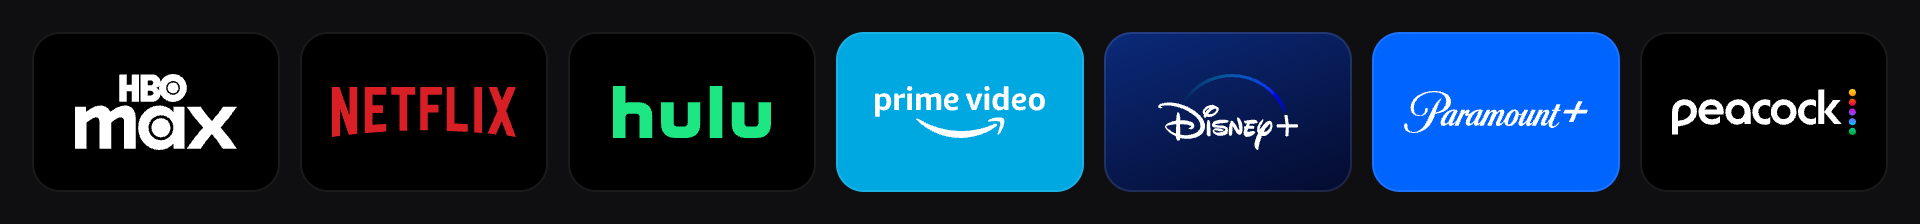
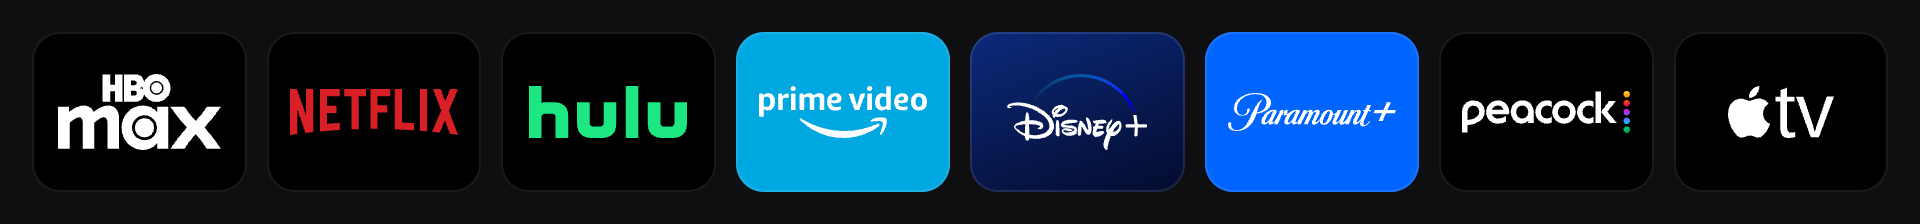
feat: support Apple TV (tv.apple.com)
- Add Apple TV to SERVICES, host permissions and content script matches
- Bump version to 1.2.0
- Apple TV logo in the hero and README logo strip; README, product docs updated
- README: explain Ardia's WebKit engine for streaming sites and how to use
  the extension there

diff --git a/scripts/screenshots/hero.html b/scripts/screenshots/hero.html
@@ -28,7 +28,7 @@
       <div class="name"><img src="/icons/icon128.png" alt="" />Streaming Speed Control</div>
       <h1>Speed control for<br />your streaming apps.</h1>
       <p>1.25x, 1.5x, 1.75x or 2x in one click, or anything from 0.25x to 4x.</p>
-      <ul class="services"><li style="background: #000000"><img class="tall" src="/docs/images/services/hbomax-dark.svg" alt="HBO Max" /></li><li style="background: #000000"><img src="/docs/images/services/netflix.svg" alt="Netflix" /></li><li style="background: #000000"><img src="/docs/images/services/hulu.svg" alt="Hulu" /></li><li style="background: #00A8E1"><img src="/docs/images/services/primevideo-dark.svg" alt="Prime Video" /></li><li style="background: linear-gradient(160deg, #0b2a7a, #040b2e)"><img class="tall" src="/docs/images/services/disneyplus-dark.svg" alt="Disney+" /></li><li style="background: #0064FF"><img src="/docs/images/services/paramountplus-dark.svg" alt="Paramount+" /></li><li style="background: #000000"><img src="/docs/images/services/peacock-dark.svg" alt="Peacock" /></li></ul>
+      <ul class="services"><li style="background: #000000"><img class="tall" src="/docs/images/services/hbomax-dark.svg" alt="HBO Max" /></li><li style="background: #000000"><img src="/docs/images/services/netflix.svg" alt="Netflix" /></li><li style="background: #000000"><img src="/docs/images/services/hulu.svg" alt="Hulu" /></li><li style="background: #00A8E1"><img src="/docs/images/services/primevideo-dark.svg" alt="Prime Video" /></li><li style="background: linear-gradient(160deg, #0b2a7a, #040b2e)"><img class="tall" src="/docs/images/services/disneyplus-dark.svg" alt="Disney+" /></li><li style="background: #0064FF"><img src="/docs/images/services/paramountplus-dark.svg" alt="Paramount+" /></li><li style="background: #000000"><img src="/docs/images/services/peacock-dark.svg" alt="Peacock" /></li><li style="background: #000000"><img src="/docs/images/services/appletv-dark.svg" alt="Apple TV" /></li></ul>
     </div>
     <iframe src="popup.html?state=active&speed=1.5&url=https://www.netflix.com/watch/demo"></iframe>
   </body>

diff --git a/scripts/screenshots/services.html b/scripts/screenshots/services.html
@@ -5,9 +5,9 @@
     <title>Services</title>
     <style>
       html, body { margin: 0; width: 960px; height: 112px; overflow: hidden; background: #0f0f11; }
-      ul { display: grid; grid-template-columns: repeat(7, 1fr); gap: 10px; margin: 0; padding: 16px; list-style: none; box-sizing: border-box; height: 100%; align-items: center; }
+      ul { display: grid; grid-template-columns: repeat(8, 1fr); gap: 10px; margin: 0; padding: 16px; list-style: none; box-sizing: border-box; height: 100%; align-items: center; }
       li { display: flex; align-items: center; justify-content: center; height: 100%; border-radius: 14px; box-shadow: inset 0 0 0 1px rgba(255, 255, 255, 0.1); }
-      img { display: block; max-width: 92px; max-height: 26px; }
+      img { display: block; max-width: 84px; max-height: 26px; }
       img.tall { max-height: 38px; }
     </style>
   </head>
@@ -20,6 +20,7 @@
       <li style="background: linear-gradient(160deg, #0b2a7a, #040b2e)"><img class="tall" src="/docs/images/services/disneyplus-dark.svg" alt="Disney+" /></li>
       <li style="background: #0064FF"><img src="/docs/images/services/paramountplus-dark.svg" alt="Paramount+" /></li>
       <li style="background: #000000"><img src="/docs/images/services/peacock-dark.svg" alt="Peacock" /></li>
+      <li style="background: #000000"><img src="/docs/images/services/appletv-dark.svg" alt="Apple TV" /></li>
     </ul>
   </body>
 </html>

diff --git a/tests/speed-utils.test.js b/tests/speed-utils.test.js
@@ -159,6 +159,7 @@ test('getServiceForUrl names each supported streaming service', () => {
     ['https://www.paramountplus.com/shows/video/abc', 'Paramount+'],
     ['https://www.peacocktv.com/watch/playback/vod/abc', 'Peacock'],
     ['https://play.max.com/video/watch/abc', 'HBO Max'],
+    ['https://tv.apple.com/us/episode/abc', 'Apple TV'],
   ];
   for (const [url, name] of cases) {
     const service = getServiceForUrl(url);
@@ -181,8 +182,11 @@ test('isSupportedHost rejects lookalikes of the new services', () => {
   assert.equal(isSupportedHost('https://disneyplus.com.example.org/'), false);
   assert.equal(isSupportedHost('https://mypeacocktv.com/'), false);
   assert.equal(isSupportedHost('https://amazon.com.evil.io/gp/video/x'), false);
+  assert.equal(isSupportedHost('https://www.apple.com/'), false);
+  assert.equal(isSupportedHost('https://music.apple.com/'), false);
+  assert.equal(isSupportedHost('https://faketv.apple.com.evil.io/'), false);
 });
 
 test('SERVICE_NAMES lists each service once', () => {
-  assert.deepEqual(SERVICE_NAMES, ['HBO Max', 'Netflix', 'Hulu', 'Prime Video', 'Disney+', 'Paramount+', 'Peacock']);
+  assert.deepEqual(SERVICE_NAMES, ['HBO Max', 'Netflix', 'Hulu', 'Prime Video', 'Disney+', 'Paramount+', 'Peacock', 'Apple TV']);
 });

diff --git a/src/shared/speed-utils.js b/src/shared/speed-utils.js
@@ -176,6 +176,7 @@
     { id: 'disneyplus', name: 'Disney+', domains: ['disneyplus.com'] },
     { id: 'paramountplus', name: 'Paramount+', domains: ['paramountplus.com'] },
     { id: 'peacock', name: 'Peacock', domains: ['peacocktv.com'] },
+    { id: 'appletv', name: 'Apple TV', domains: ['tv.apple.com'] },
   ]);
 
   const SERVICE_NAMES = Object.freeze(

diff --git a/README.md b/README.md
@@ -4,7 +4,7 @@
 
 # Streaming Speed Control
 
-**Watch HBO Max, Netflix, Hulu, Prime Video, Disney+, Paramount+ and Peacock at 1.25x, 1.5x, 1.75x, 2x, or any speed from 0.25x to 4x.**<br />
+**Watch HBO Max, Netflix, Hulu, Prime Video, Disney+, Paramount+, Peacock and Apple TV at 1.25x, 1.5x, 1.75x, 2x, or any speed from 0.25x to 4x.**<br />
 A free, open-source browser extension that adds the speed control your streaming player is missing.
 
 [![License: MIT](https://img.shields.io/badge/license-MIT-2563EB.svg)](LICENSE)
@@ -26,7 +26,7 @@ This extension adds one speed control that works the same way on all of them. Cl
 
 ## Supported services
 
-<img src="docs/images/services.png" alt="HBO Max, Netflix, Hulu, Prime Video, Disney+, Paramount+ and Peacock" width="840" />
+<img src="docs/images/services.png" alt="HBO Max, Netflix, Hulu, Prime Video, Disney+, Paramount+, Peacock and Apple TV" width="840" />
 
 | Service | Sites |
 |---|---|
@@ -37,6 +37,7 @@ This extension adds one speed control that works the same way on all of them. Cl
 | Disney+ | `disneyplus.com` |
 | Paramount+ | `paramountplus.com` |
 | Peacock | `peacocktv.com` |
+| Apple TV | `tv.apple.com` |
 
 Want another service? [Open an issue](https://github.com/yuslama/streaming-speed-control/issues) with its website.
 
@@ -78,7 +79,7 @@ Want another service? [Open an issue](https://github.com/yuslama/streaming-speed
 
 The extension isn't on the Chrome Web Store yet, so you install it from this repository. It takes about a minute.
 
-1. **Download the extension:** grab `streaming-speed-control-v1.1.0.zip` from the [latest release](https://github.com/yuslama/streaming-speed-control/releases/latest) and unzip it.
+1. **Download the extension:** grab the `streaming-speed-control-v….zip` file from the [latest release](https://github.com/yuslama/streaming-speed-control/releases/latest) and unzip it.
    Or clone the repository:
    ```bash
    git clone https://github.com/yuslama/streaming-speed-control.git
@@ -97,6 +98,8 @@ Open one of the [supported services](#supported-services), start a show, and pic
 ### Supported browsers
 
 Desktop Google Chrome and Chromium-based browsers with Manifest V3 support, including de-Googled builds such as Ardia. Microsoft Edge, Brave, Arc, Opera and Vivaldi should work the same way. Firefox and Safari aren't supported yet.
+
+**Ardia on Mac:** Ardia opens streaming sites in its WebKit (Safari) engine by default so protected video can play, and extensions can't run there. To use the extension, remove the **Streaming sites** row under **Settings › Advanced › Web engine** so those sites open in Chromium. Protected video may not play in Ardia's Chromium engine.
 
 ## How to use
 
@@ -219,4 +222,4 @@ To try your changes, load the folder with **Load unpacked** as described in [Ins
 
 ---
 
-<sub>Not affiliated with, endorsed by, or sponsored by any of the streaming services named here. HBO Max, Netflix, Hulu, Prime Video, Disney+, Paramount+ and Peacock are trademarks of their respective owners and are used here only to describe what the extension works with. The film still in the player screenshots is from <i>Dune: Part Two</i> (© 2024 Legendary Pictures / Warner Bros.) and is shown for illustration only.</sub>
+<sub>Not affiliated with, endorsed by, or sponsored by any of the streaming services named here. HBO Max, Netflix, Hulu, Prime Video, Disney+, Paramount+, Peacock and Apple TV are trademarks of their respective owners and are used here only to describe what the extension works with. The film still in the player screenshots is from <i>Dune: Part Two</i> (© 2024 Legendary Pictures / Warner Bros.) and is shown for illustration only.</sub>

diff --git a/PRODUCT.md b/PRODUCT.md
@@ -8,11 +8,11 @@ web
 
 ## Users
 
-People watching streaming services (HBO Max, Netflix, Hulu, Prime Video, Disney+, Paramount+, Peacock) in a Chromium desktop browser who want to watch faster (or slower) than the player allows. They open the popup or glance at the on-player overlay mid-episode, usually in a dim room, change the speed, and go back to watching. Most visits last a few seconds.
+People watching streaming services (HBO Max, Netflix, Hulu, Prime Video, Disney+, Paramount+, Peacock, Apple TV) in a Chromium desktop browser who want to watch faster (or slower) than the player allows. They open the popup or glance at the on-player overlay mid-episode, usually in a dim room, change the speed, and go back to watching. Most visits last a few seconds.
 
 ## Product Purpose
 
-A Manifest V3 browser extension that sets playback speed on HBO Max, Netflix, Hulu, Prime Video, Disney+, Paramount+ and Peacock from 0.25x to 4.0x. The service list lives in `SERVICES` in `src/shared/speed-utils.js`. Success: the user changes speed in one click and the speed sticks across episodes and player resets.
+A Manifest V3 browser extension that sets playback speed on HBO Max, Netflix, Hulu, Prime Video, Disney+, Paramount+, Peacock and Apple TV from 0.25x to 4.0x. The service list lives in `SERVICES` in `src/shared/speed-utils.js`. Success: the user changes speed in one click and the speed sticks across episodes and player resets.
 
 ## Positioning
 

diff --git a/.impeccable/surfaces/src-popup-popup-html.md b/.impeccable/surfaces/src-popup-popup-html.md
@@ -9,7 +9,7 @@ related_targets: ["src/content/overlay-ui.js"]
 
 Scope: extension popup (src/popup/) and on-player overlay (src/content/overlay-ui.js). Mode: Operate.
 
-Audience and job: streaming viewers (HBO Max, Netflix, Hulu, Prime Video, Disney+, Paramount+, Peacock), often in a dim room, changing speed in a few seconds and returning to the show. Public Web Store release, so first-time users must understand it unaided.
+Audience and job: streaming viewers (HBO Max, Netflix, Hulu, Prime Video, Disney+, Paramount+, Peacock, Apple TV), often in a dim room, changing speed in a few seconds and returning to the show. Public Web Store release, so first-time users must understand it unaided.
 
 Constraints: zero-build HTML/CSS/JS, popup ~320px wide, overlay in Shadow DOM over the player and fullscreen. Secondary preset row (0.5/0.75/1/2.5/3) dropped; 1.0x via Reset.
 
